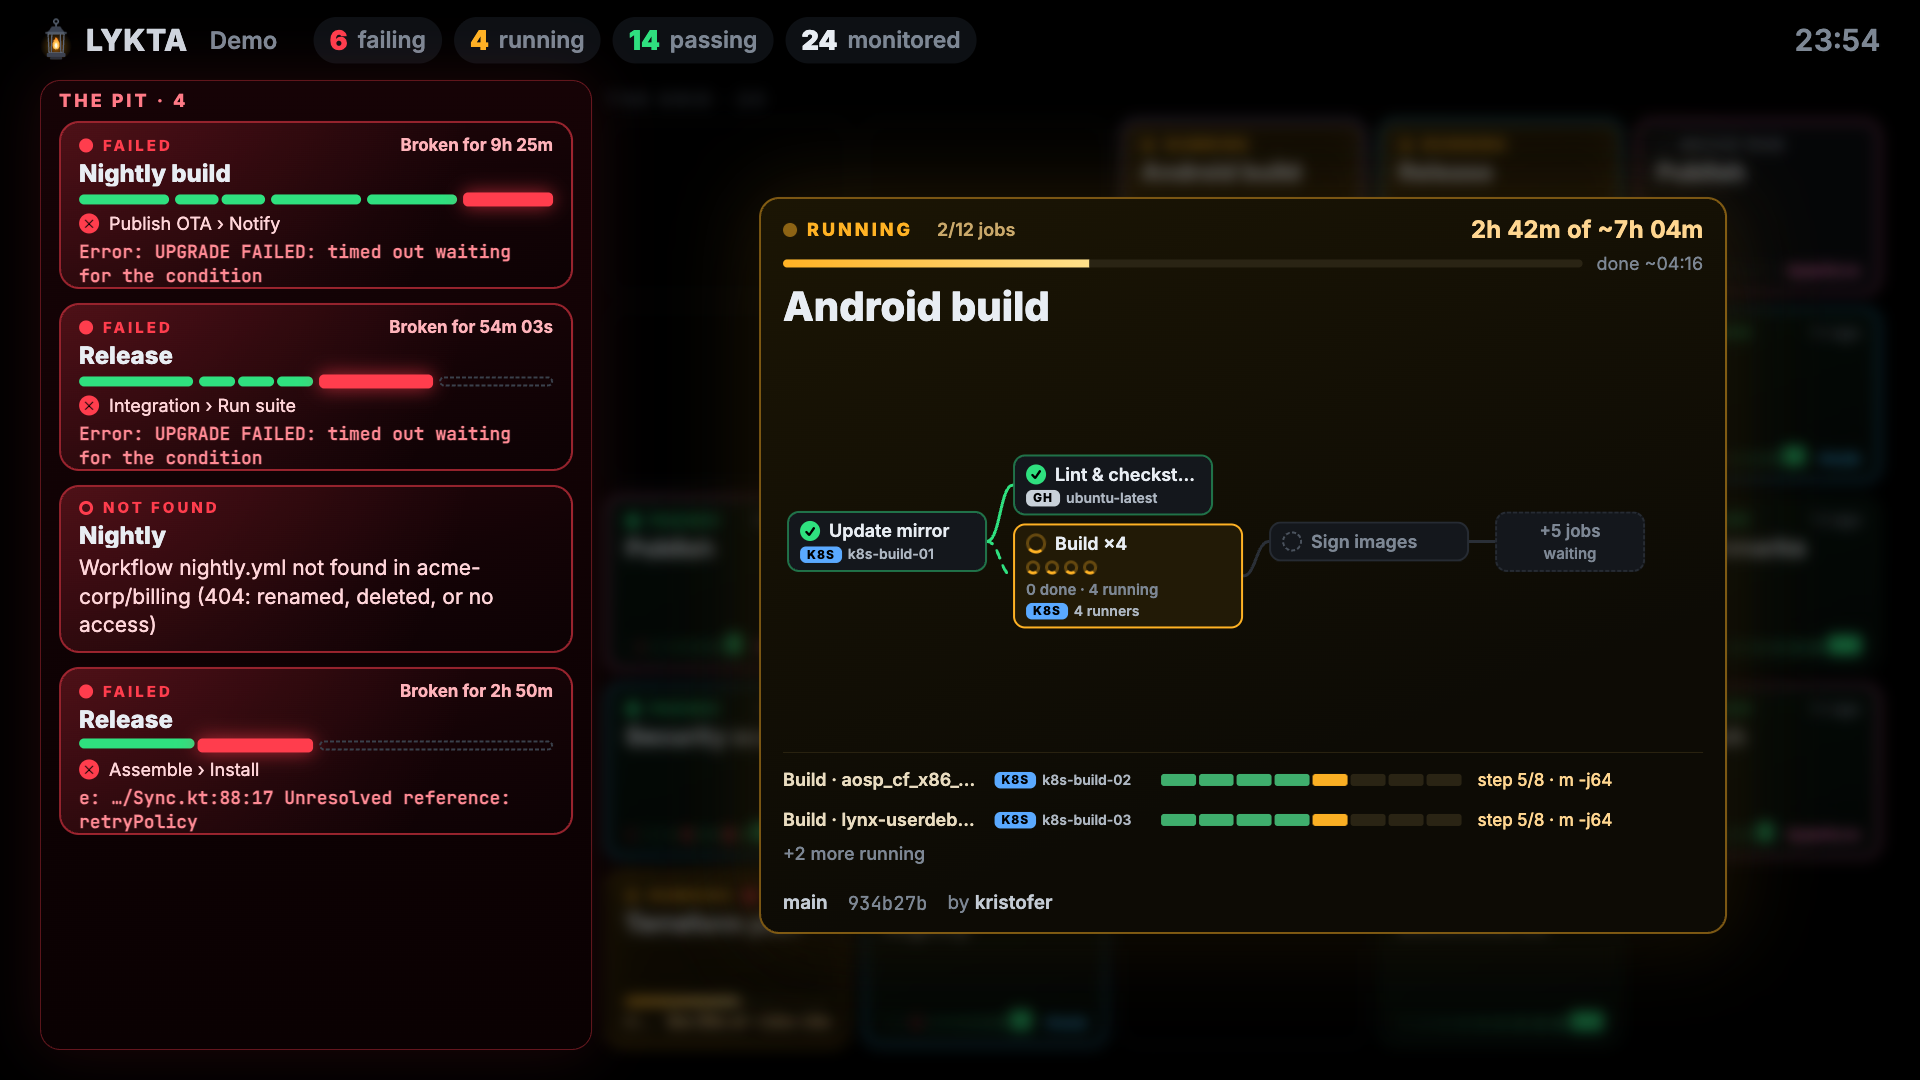
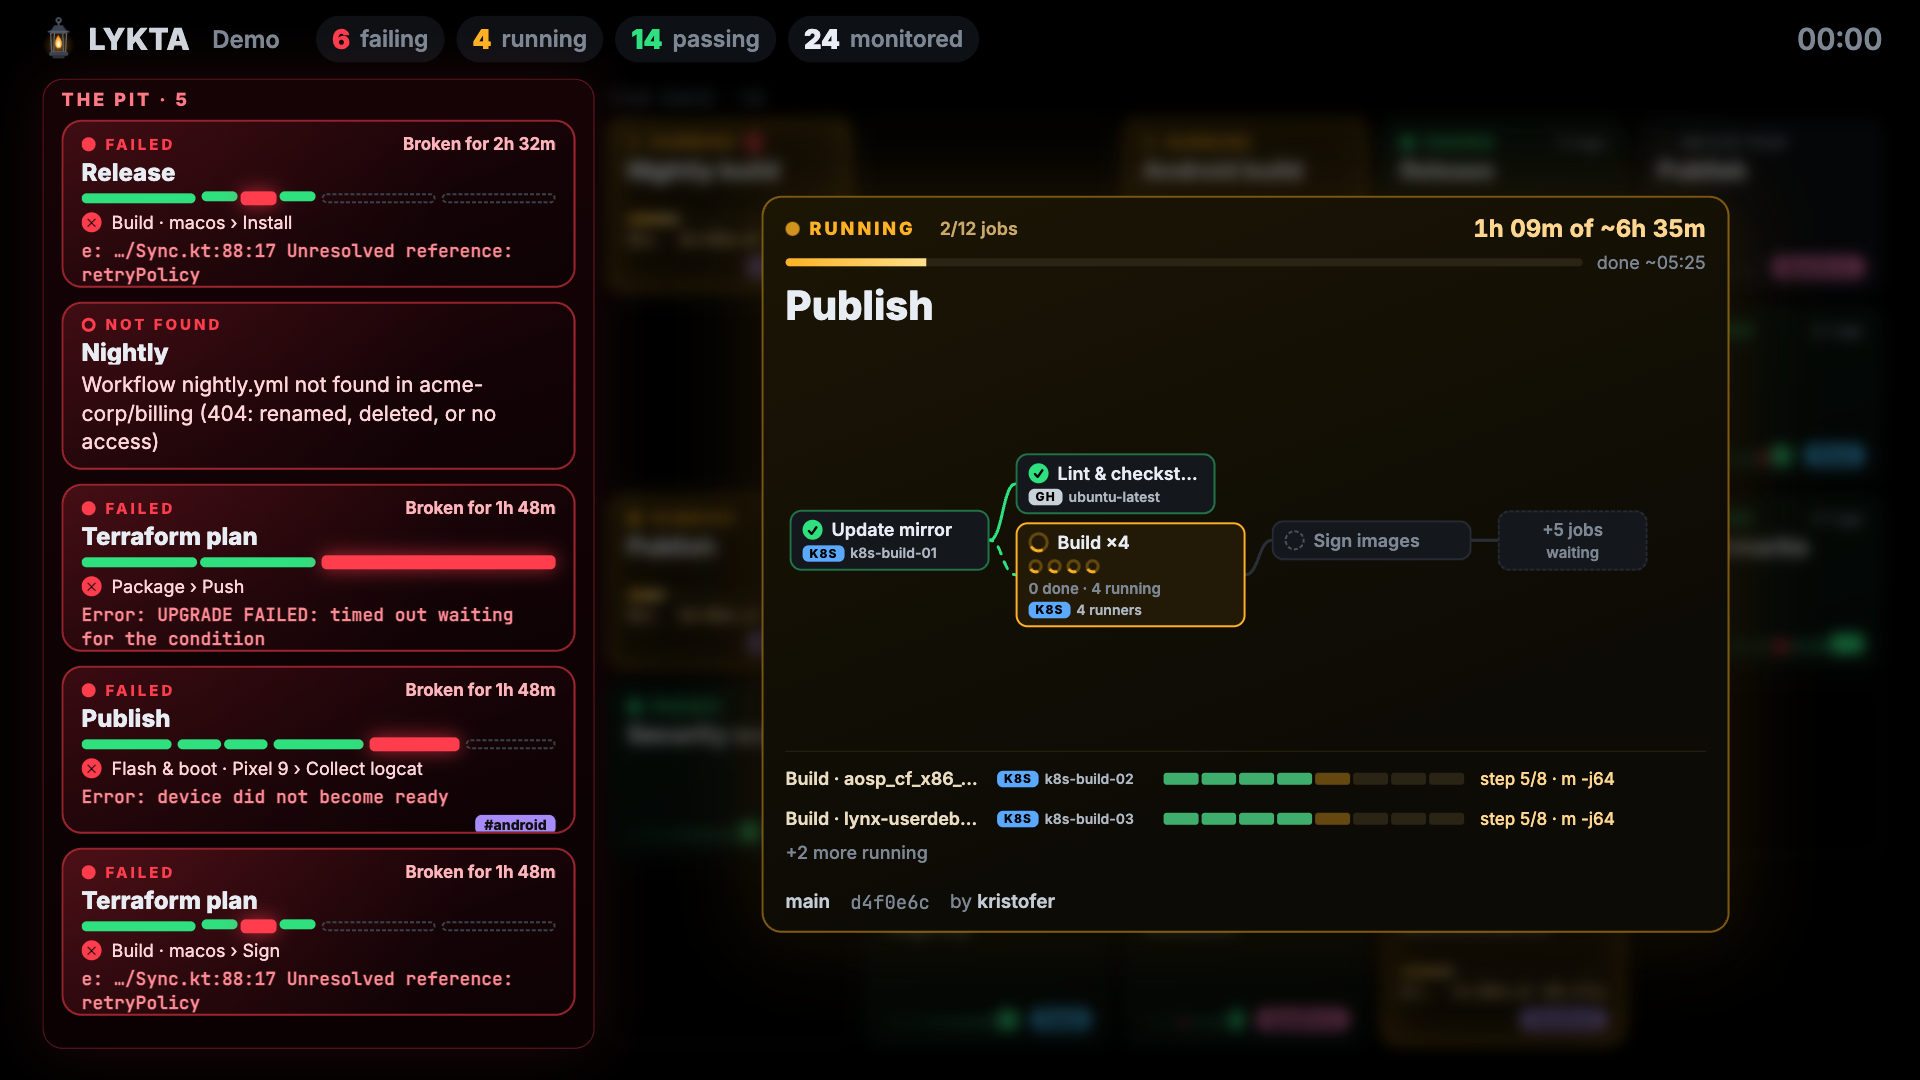
README screenshots with luggage tags; compact pit cars leave the tag to the tile

diff --git a/src/web/styles.css b/src/web/styles.css
@@ -1979,3 +1979,7 @@ body {
   width: 60px;
   height: 26px;
 }
+/* compact cars have no room for the label tag; the grid tile still shows it */
+.car.compact .tags {
+  display: none;
+}
